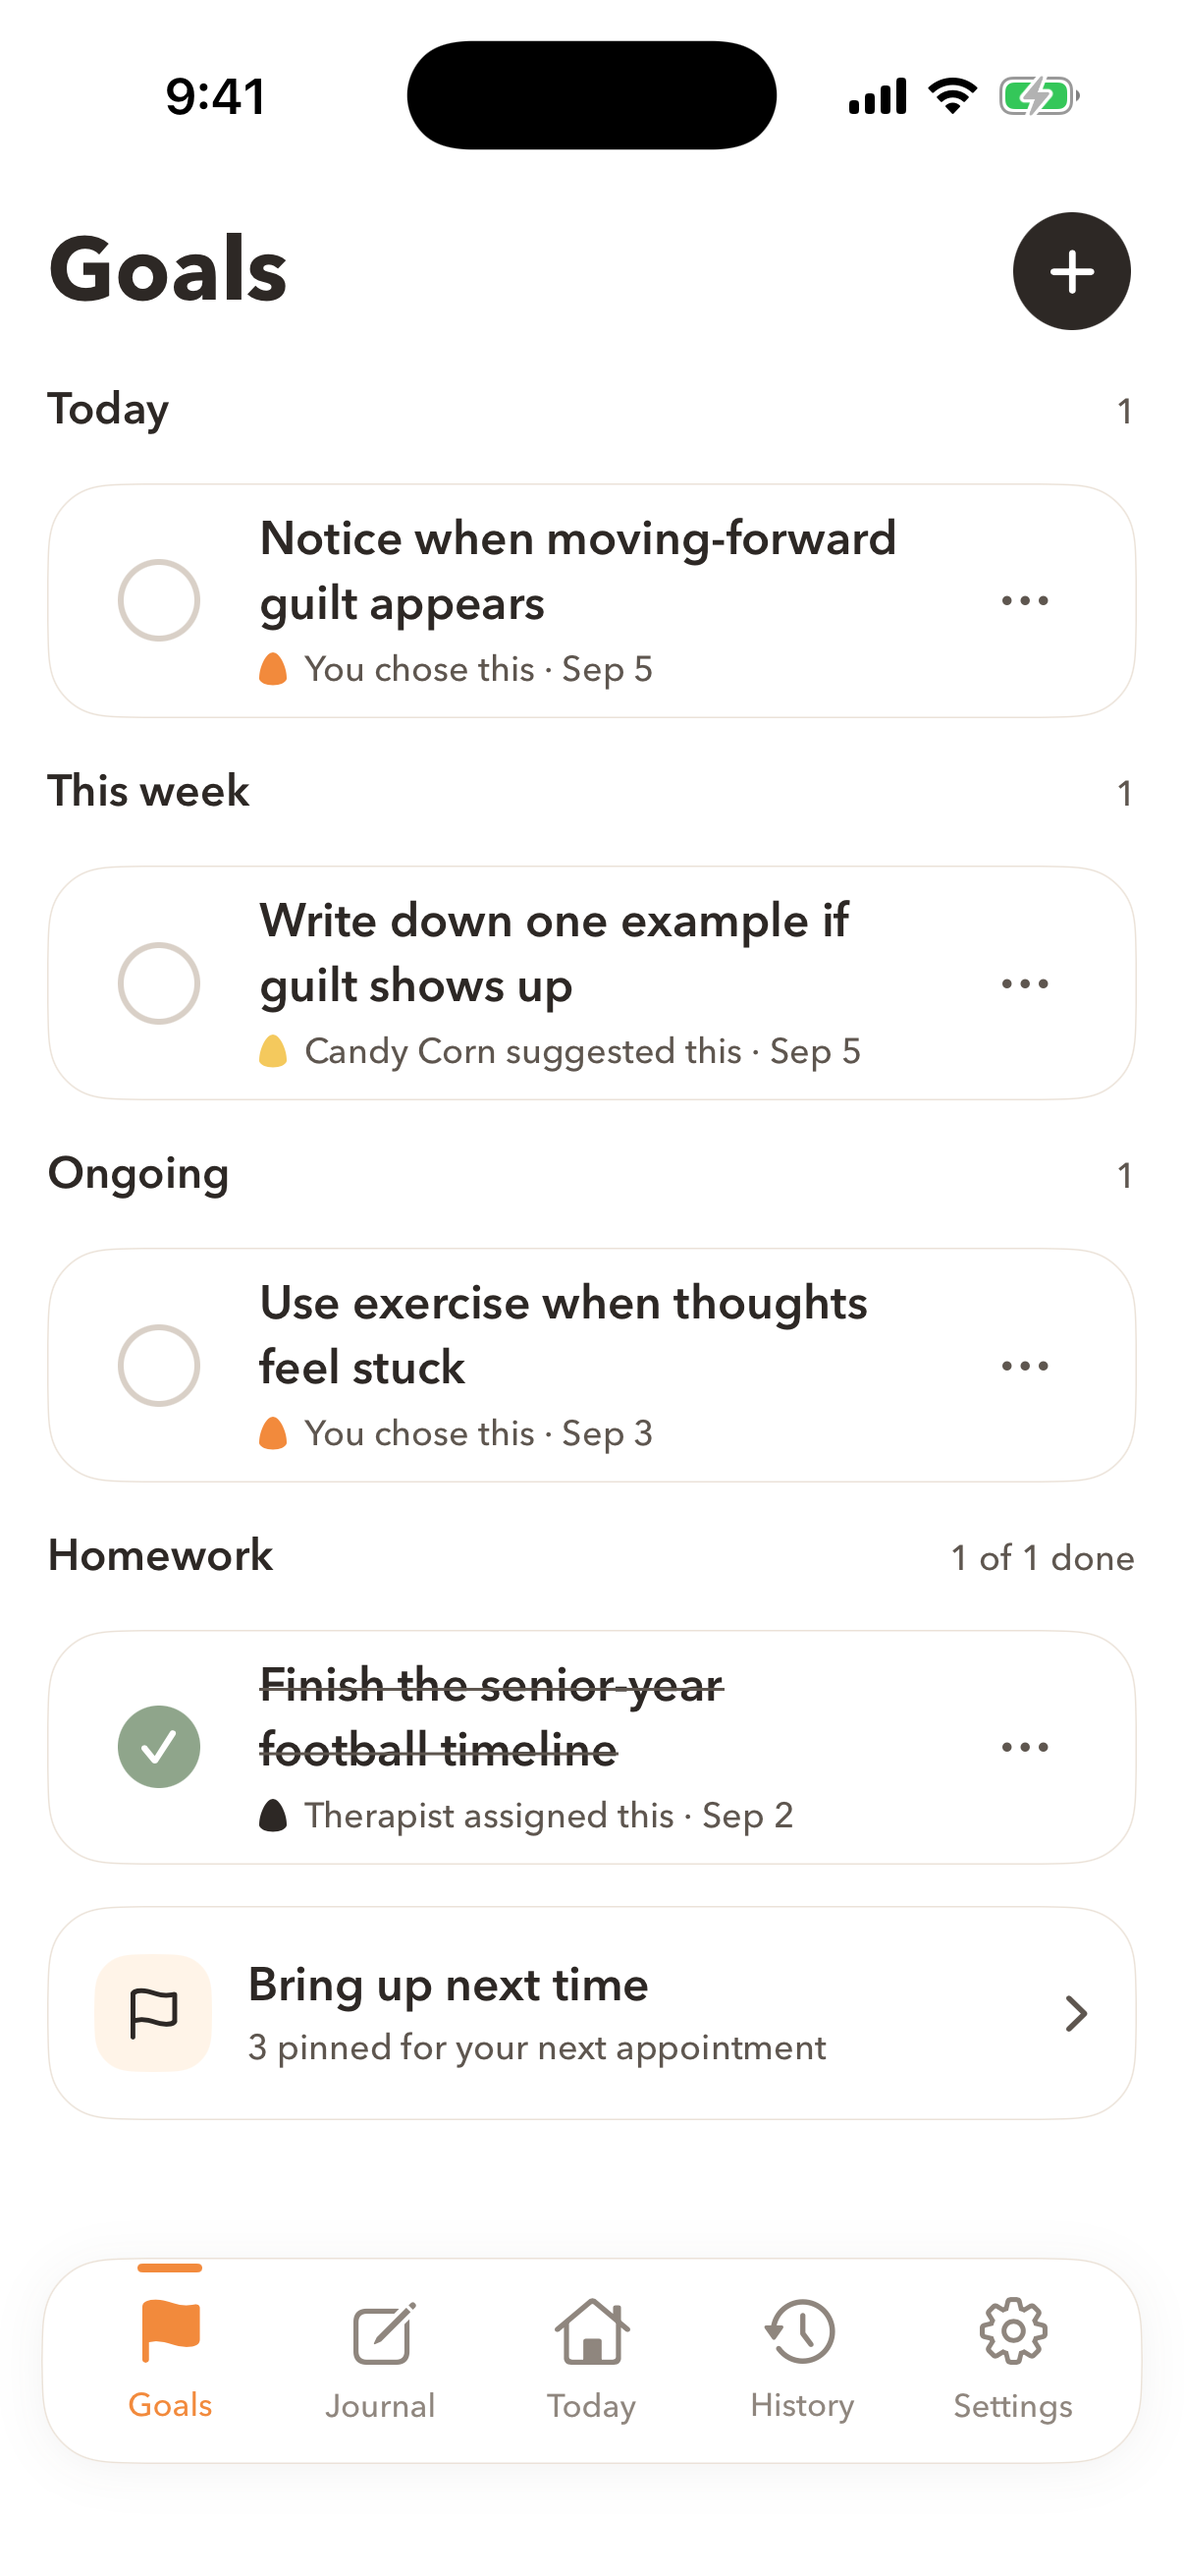
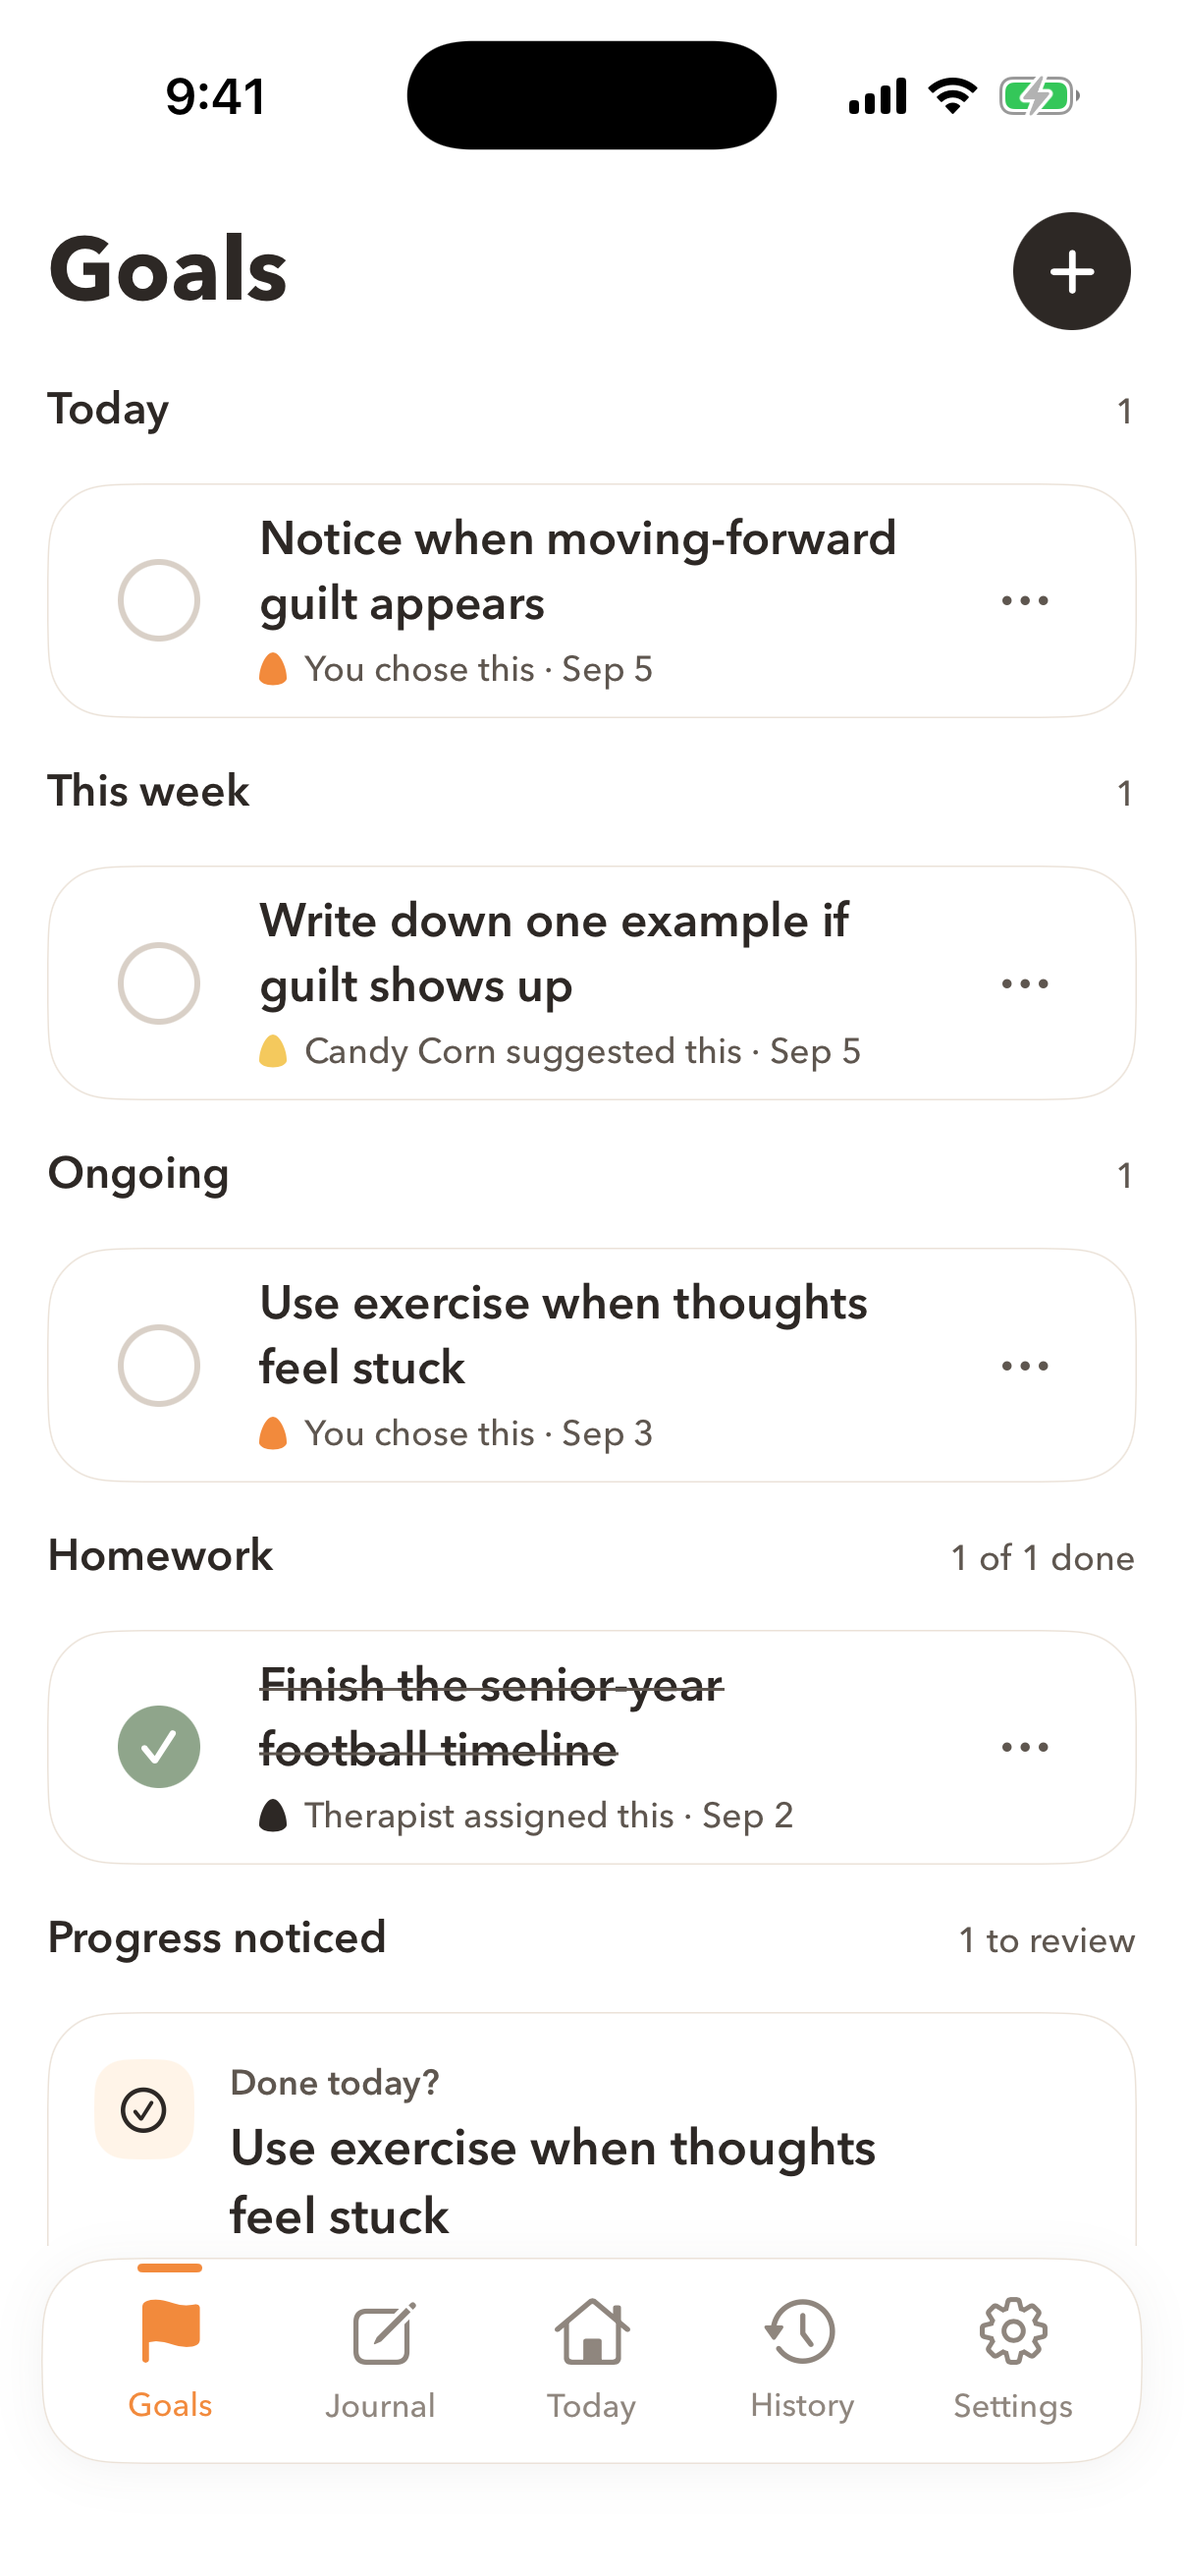
Screenshot seed for Phase 5 surfaces, with a guard test
Phase5ScreenshotSeed builds a weekly summary through the real preparation and validator
(cited source ids match the consolidator's rule) and one goal progress suggestion, only for
-screen launches of /history, /goals, /today. 292 tests, 46 suites.

Changed region(s): [[0.0307, 0.7414, 0.7363, 0.865], [0.9204, 0.7414, 0.9511, 0.7723], [0.8897, 0.7723, 0.9204, 0.8032]]

diff --git a/apps/candycorn-ios/CandyCorn/Services/Memory/Phase5ScreenshotSeed.swift b/apps/candycorn-ios/CandyCorn/Services/Memory/Phase5ScreenshotSeed.swift
@@ -1,0 +1,124 @@
+import Foundation
+
+/// Screenshot-mode only: gives History a weekly summary and Goals a progress suggestion so the
+/// Phase 5 surfaces render with content. Built through the real preparation and validator, so the
+/// seeded artifact is exactly what a live run would store. Never used outside `-screen` launches.
+enum Phase5ScreenshotSeed {
+    private static let routes: Set<String> = ["/history", "/goals", "/today"]
+    private static let weeklyID = uuid("8F500000-0000-0000-0000-000000000001")
+    private static let progressID = uuid("8F500000-0000-0000-0000-000000000002")
+    private static let suggestionID = uuid("8F500000-0000-0000-0000-000000000003")
+    private static let provider = "openrouter"
+    private static let model = "deepseek/deepseek-v4-flash-0731"
+
+    static func applyingIfNeeded(to source: CareSnapshot, arguments: [String], now: Date) -> CareSnapshot {
+        guard let flag = arguments.firstIndex(of: "-screen") else { return source }
+        let valueIndex = arguments.index(after: flag)
+        guard valueIndex < arguments.endIndex, routes.contains(arguments[valueIndex]) else { return source }
+        var snapshot = source
+        seedWeeklySummary(into: &snapshot, now: now)
+        seedProgressSuggestion(into: &snapshot, now: now)
+        return snapshot
+    }
+
+    private static func seedWeeklySummary(into snapshot: inout CareSnapshot, now: Date) {
+        guard let preparation = try? WeeklyConsolidator.makePreparation(
+            snapshot: snapshot, for: now, calendar: .autoupdatingCurrent
+        ) else { return }
+        let input = preparation.input
+        let userSources = input.sources.filter { $0.provenance == .user }
+        func item(from source: WeeklySummarySource?) -> [WeeklySummaryItem] {
+            guard let source else { return [] }
+            let sentence = firstSentence(of: source.document.text)
+            guard !sentence.isEmpty else { return [] }
+            return [WeeklySummaryItem(
+                id: UUID(), text: sentence, provenance: .user,
+                evidence: [EvidenceCitation(sourceID: source.id, quote: sentence, timestampMilliseconds: nil)]
+            )]
+        }
+        let mood = userSources.first { $0.document.kind == .moodTrend }
+        let work = userSources.first { $0.document.kind == .homework || $0.document.kind == .goal }
+        let journal = userSources.first { $0.document.kind == .journal }
+        let point = userSources.first { $0.document.kind == .talkingPoint }
+        let sections = [
+            WeeklySummarySection(id: UUID(), kind: .moodTrend, items: item(from: mood)),
+            WeeklySummarySection(id: UUID(), kind: .completedWork, items: item(from: work)),
+            WeeklySummarySection(id: UUID(), kind: .recurringTopics, items: item(from: journal)),
+            WeeklySummarySection(id: UUID(), kind: .openForNextAppointment, items: item(from: point)),
+        ]
+        let result = WeeklySummaryResult(
+            interval: input.interval,
+            sections: sections,
+            metadata: AIResultMetadata(provider: provider, model: model, usage: AIUsage())
+        )
+        guard (try? OrganizerOutputValidator().validatedWeeklySummary(result, input: input)) != nil else { return }
+        let payload = WeeklySummaryArtifactPayload(
+            inputInterval: input.interval, sources: input.sources,
+            requestText: input.requestText, result: result
+        )
+        let encoder = JSONEncoder()
+        encoder.outputFormatting = [.sortedKeys, .withoutEscapingSlashes]
+        guard let data = try? encoder.encode(payload) else { return }
+        let cited = Set(result.sections.flatMap(\.items).flatMap(\.evidence).map(\.sourceID))
+        upsert(AIArtifact(
+            id: weeklyID, kind: .weeklySummary, sourceIDs: input.sources.map(\.id).filter { cited.contains($0) },
+            provider: provider, model: model, structuredPayload: data, createdAt: now
+        ), in: &snapshot.artifacts)
+    }
+
+    private static func seedProgressSuggestion(into snapshot: inout CareSnapshot, now: Date) {
+        let goalID = uuid("40000000-0000-0000-0000-000000000004")
+        guard snapshot.goals.contains(where: { $0.id == goalID && $0.status == .active }),
+              let journal = snapshot.journals.first(where: { $0.id == SeededData.footballJournalID }) else { return }
+        let quote = "I got angry, went to the gym, and felt better"
+        guard journal.rawText.contains(quote) else { return }
+        let suggestion = GoalProgressSuggestion(
+            id: suggestionID, goalID: goalID, mark: .doneToday,
+            note: "Your Sep 5 journal says you used exercise when the football thoughts came back.",
+            evidence: [EvidenceCitation(sourceID: journal.id, quote: quote, timestampMilliseconds: nil)],
+            resolution: .pending
+        )
+        let document = SourceTextDocument(
+            id: journal.id, kind: .journal, title: journal.title, text: journal.rawText, occurredAt: journal.createdAt
+        )
+        let payload = GoalProgressSuggestionArtifactPayload(
+            origin: .journal(journal.id),
+            input: GoalProgressSuggestionInput(
+                originID: journal.id, origin: .journal(journal.id),
+                sources: [GoalProgressSourceDocument(document: document, startMilliseconds: nil, endMilliseconds: nil)],
+                goals: snapshot.goals.filter { $0.status == .active }.map {
+                    GoalProgressGoalContext(id: $0.id, title: $0.title, detail: $0.detail, cadence: $0.cadence)
+                },
+                requestText: "Screenshot seed"
+            ),
+            result: GoalProgressSuggestionResult(
+                suggestions: [suggestion],
+                metadata: AIResultMetadata(provider: provider, model: model, usage: AIUsage())
+            )
+        )
+        let encoder = JSONEncoder()
+        encoder.outputFormatting = [.sortedKeys, .withoutEscapingSlashes]
+        guard let data = try? encoder.encode(payload) else { return }
+        upsert(AIArtifact(
+            id: progressID, kind: .goalProgressSuggestions, sourceIDs: [journal.id, goalID],
+            provider: provider, model: model, structuredPayload: data, createdAt: now
+        ), in: &snapshot.artifacts)
+    }
+
+    private static func firstSentence(of text: String) -> String {
+        let trimmed = text.trimmingCharacters(in: .whitespacesAndNewlines)
+        guard let end = trimmed.firstIndex(where: { $0 == "." || $0 == "!" || $0 == "?" }) else {
+            return String(trimmed.prefix(160))
+        }
+        return String(trimmed[..<end])
+    }
+
+    private static func upsert(_ artifact: AIArtifact, in artifacts: inout [AIArtifact]) {
+        artifacts.removeAll { $0.id == artifact.id }
+        artifacts.append(artifact)
+    }
+
+    private static func uuid(_ value: String) -> UUID {
+        UUID(uuidString: value)!
+    }
+}

diff --git a/apps/candycorn-ios/CandyCorn/App/DemoState.swift b/apps/candycorn-ios/CandyCorn/App/DemoState.swift
@@ -183,7 +183,10 @@ final class DemoState {
         self.dependencies = resolvedDependencies
         launchArguments = arguments
         let base = dependencies == nil ? SeededData.careSnapshot : SeededData.emptySnapshot
-        let initial = Phase4ScreenshotSeed.applyingIfNeeded(to: base, arguments: arguments)
+        let initial = Phase5ScreenshotSeed.applyingIfNeeded(
+            to: Phase4ScreenshotSeed.applyingIfNeeded(to: base, arguments: arguments),
+            arguments: arguments, now: resolvedDependencies.now()
+        )
         journals = initial.journals
         moods = initial.moods
         appointments = initial.appointments
@@ -212,8 +215,11 @@ final class DemoState {
         loadState = .loading
         do {
             listenForProcessingEvents()
-            apply(Phase4ScreenshotSeed.applyingIfNeeded(
-                to: try await dependencies.careStore.snapshot(), arguments: launchArguments
+            apply(Phase5ScreenshotSeed.applyingIfNeeded(
+                to: Phase4ScreenshotSeed.applyingIfNeeded(
+                    to: try await dependencies.careStore.snapshot(), arguments: launchArguments
+                ),
+                arguments: launchArguments, now: dependencies.now()
             ))
             refreshLoadState()
             dependencies.logger.record(.vaultOpened, metrics: EventMetrics())
@@ -1743,7 +1749,10 @@ final class DemoState {
 
     private func refreshPhase4Snapshot() async {
         guard let snapshot = try? await dependencies.careStore.snapshot() else { return }
-        apply(Phase4ScreenshotSeed.applyingIfNeeded(to: snapshot, arguments: launchArguments))
+        apply(Phase5ScreenshotSeed.applyingIfNeeded(
+            to: Phase4ScreenshotSeed.applyingIfNeeded(to: snapshot, arguments: launchArguments),
+            arguments: launchArguments, now: dependencies.now()
+        ))
         refreshLoadState()
     }
 

diff --git a/apps/candycorn-ios/CandyCornTests/Phase5ScreenshotSeedTests.swift b/apps/candycorn-ios/CandyCornTests/Phase5ScreenshotSeedTests.swift
@@ -1,0 +1,27 @@
+import Foundation
+import Testing
+@testable import CandyCorn
+
+@Suite("Phase 5 screenshot seed")
+struct Phase5ScreenshotSeedTests {
+    private static let now = Date(timeIntervalSince1970: 1_788_654_600)
+
+    @Test("Seeded snapshot carries a readable weekly summary and a pending progress suggestion")
+    func seedProducesBothArtifacts() throws {
+        let base = SeededData.careSnapshot
+        let preparation = try WeeklyConsolidator.makePreparation(snapshot: base, for: Self.now, calendar: .autoupdatingCurrent)
+        let sources = preparation?.input.sources ?? []
+        let kinds = sources.map { "\($0.document.kind.rawValue):\($0.provenance)" }
+        #expect(preparation != nil, "preparation nil")
+        #expect(!sources.isEmpty, "no sources; kinds=\(kinds)")
+
+        let seeded = Phase5ScreenshotSeed.applyingIfNeeded(to: base, arguments: ["CandyCorn", "-screen", "/history"], now: Self.now)
+        let weekly = seeded.artifacts.filter { $0.kind == .weeklySummary }
+        #expect(weekly.count == 1, "weekly artifacts=\(weekly.count) sources=\(kinds)")
+        #expect(WeeklyConsolidator.currentSummary(in: seeded.artifacts, for: Self.now) != nil)
+        #expect(seeded.artifacts.contains { $0.kind == .goalProgressSuggestions })
+
+        let untouched = Phase5ScreenshotSeed.applyingIfNeeded(to: base, arguments: ["CandyCorn"], now: Self.now)
+        #expect(untouched.artifacts.count == base.artifacts.count)
+    }
+}
